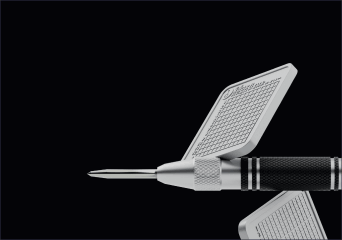
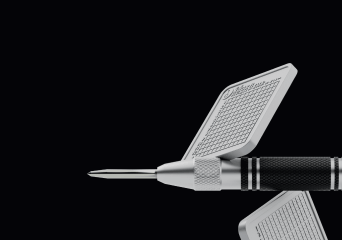
fix: started page image layout

Changed region(s): [[0.0, 0.0, 1.0, 1.0]]

diff --git a/packages/kit/src/views/KeyTag/Screen/StartedKeyTag.tsx b/packages/kit/src/views/KeyTag/Screen/StartedKeyTag.tsx
@@ -32,7 +32,7 @@ const Started = () => {
   const { isDark } = useTheme();
   const intl = useIntl();
   const isVerticalLayout = useIsVerticalLayout();
-  const { imageWidth, imageHeight } = useStartedKeyTagImage();
+  const { imageWidth, imageHeight, imageBoxWidth } = useStartedKeyTagImage();
   return (
     <LayoutContainer
       backButton
@@ -40,17 +40,19 @@ const Started = () => {
     >
       <Box flex="1" flexDirection={isVerticalLayout ? 'column' : 'row'}>
         <Pressable
-          w={imageWidth}
+          w={imageBoxWidth}
           h={imageHeight}
+          bgColor={isDark ? '#040407' : '#ECEDEE'}
+          borderColor="border-subdued"
+          borderWidth={StyleSheet.hairlineWidth}
+          borderRadius="12px"
           onPress={() => {
             navigation.navigate(KeyTagRoutes.IntroduceKeyTag);
           }}
         >
-          <Box position="absolute" top="0" right="0" left="0" bottom="0">
+          <Box position="absolute" top="0" right="0" bottom="0">
             <Image
               source={isDark ? keytagDark1 : keytagLight1}
-              borderColor="border-subdued"
-              borderWidth={StyleSheet.hairlineWidth}
               borderRadius="12px"
               w={imageWidth}
               h={imageHeight}
@@ -65,17 +67,19 @@ const Started = () => {
         <Pressable
           mt={isVerticalLayout ? 6 : 0}
           ml={isVerticalLayout ? 0 : 6}
-          w={imageWidth}
+          bgColor={isDark ? '#040407' : '#ECEDEE'}
+          w={imageBoxWidth}
           h={imageHeight}
+          borderColor="border-subdued"
+          borderWidth={StyleSheet.hairlineWidth}
+          borderRadius="12px"
           onPress={() => {
             navigation.navigate(KeyTagRoutes.ImportKeytag);
           }}
         >
-          <Box position="absolute" top="0" right="0" left="0" bottom="0">
+          <Box position="absolute" top="0" right="0" bottom="0">
             <Image
               source={isDark ? keytagDark2 : keytagLight2}
-              borderColor="border-subdued"
-              borderWidth={StyleSheet.hairlineWidth}
               borderRadius="12px"
               w={imageWidth}
               h={imageHeight}

diff --git a/packages/kit/src/views/KeyTag/hooks/useKeyTagLayout.ts b/packages/kit/src/views/KeyTag/hooks/useKeyTagLayout.ts
@@ -29,15 +29,17 @@ export const useIntroductionBigImage = () => {
 export const useStartedKeyTagImage = () => {
   const { screenWidth } = useUserDevice();
   const isVertical = useIsVerticalLayout();
-  const ratio = 240 / 342;
-  const imageWidth = useMemo(() => {
+  const imageBoxWidth = useMemo(() => {
     if (isVertical) {
       return screenWidth - 48;
     }
-    return 342;
+    const fullWidth = screenWidth > 800 ? 800 : screenWidth;
+    const space = screenWidth > 800 ? 24 : 72;
+    return (fullWidth - space) / 2;
   }, [isVertical, screenWidth]);
-  const imageHeight = useMemo(() => imageWidth * ratio, [imageWidth, ratio]);
-  return { imageHeight, imageWidth };
+  const imageHeight = 240;
+  const imageWidth = 342;
+  return { imageHeight, imageBoxWidth, imageWidth };
 };
 
 export const useImportKeytagSpaceSize = () => {
